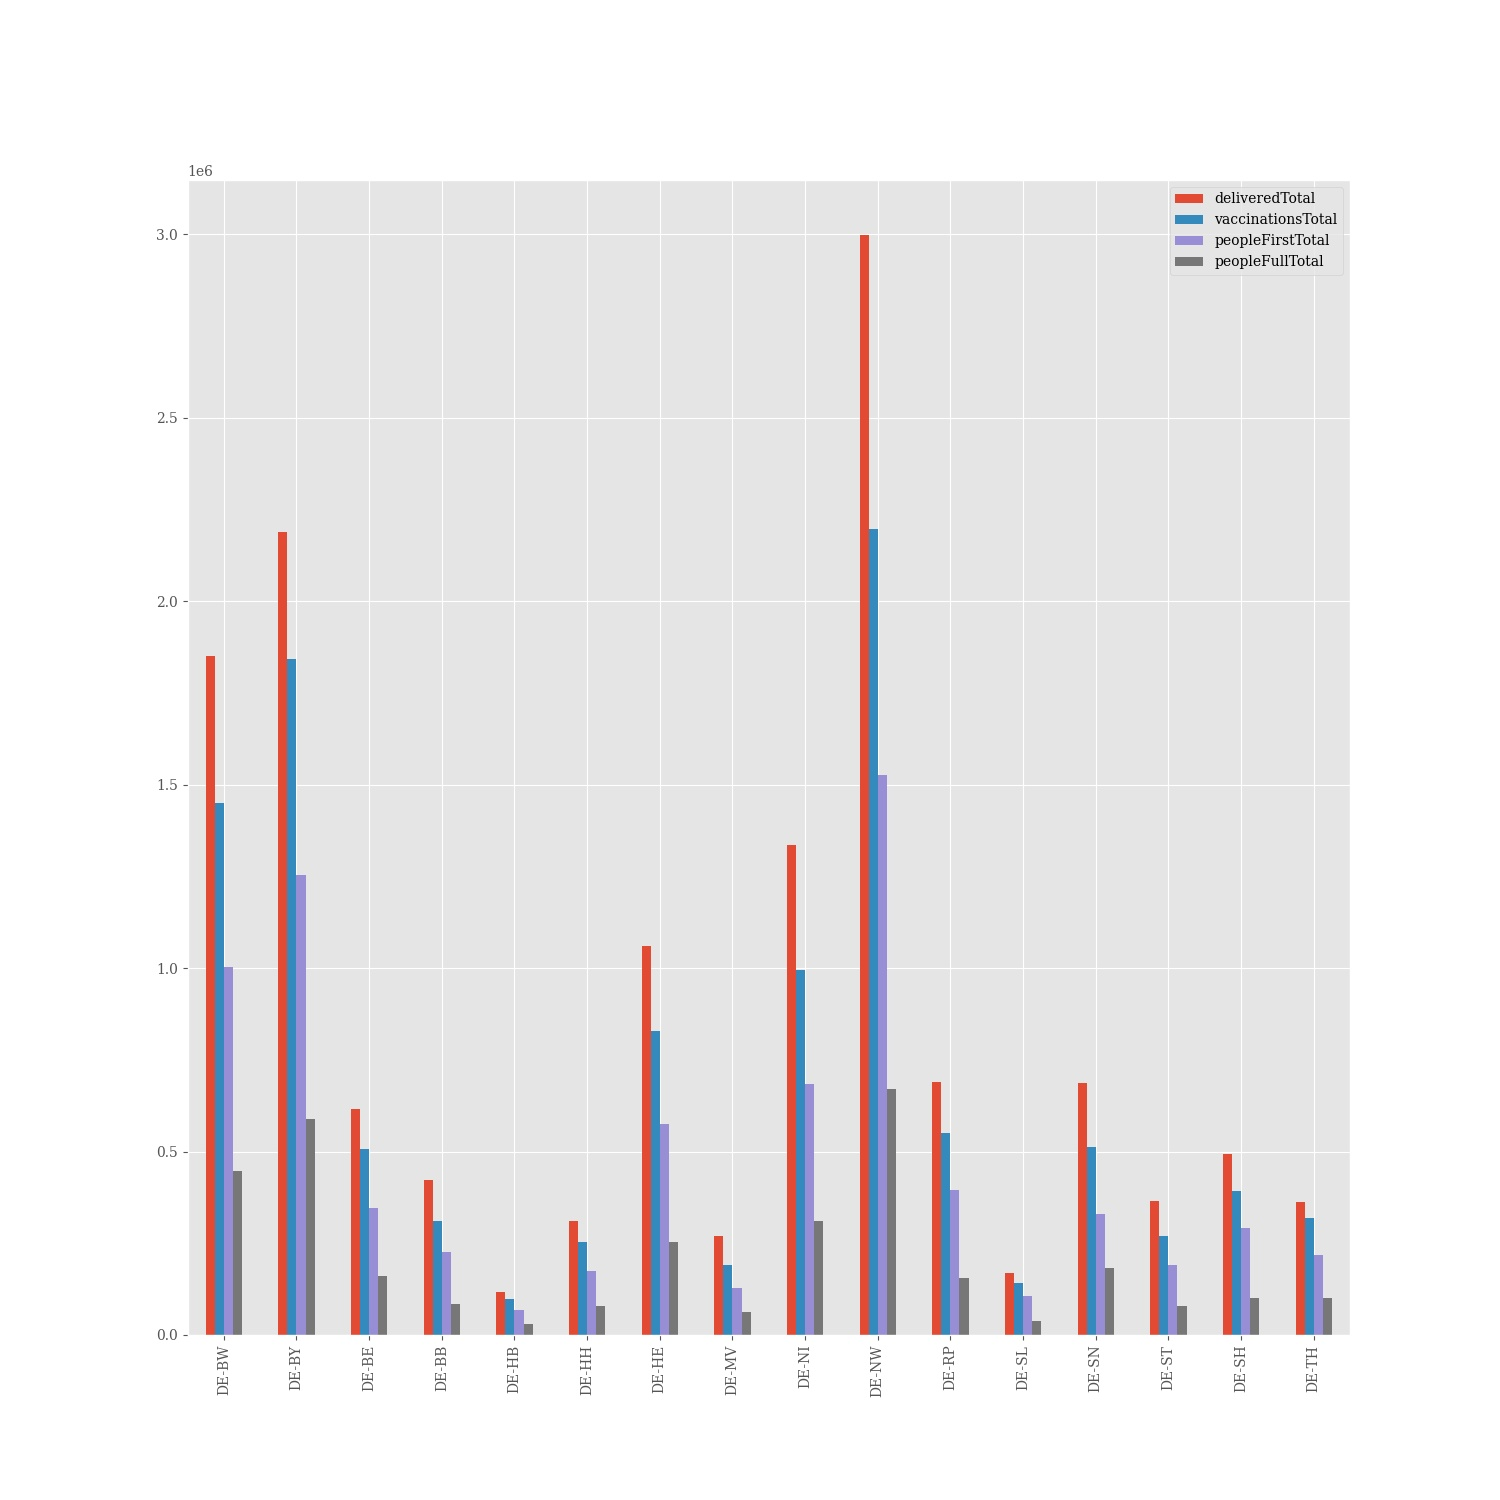
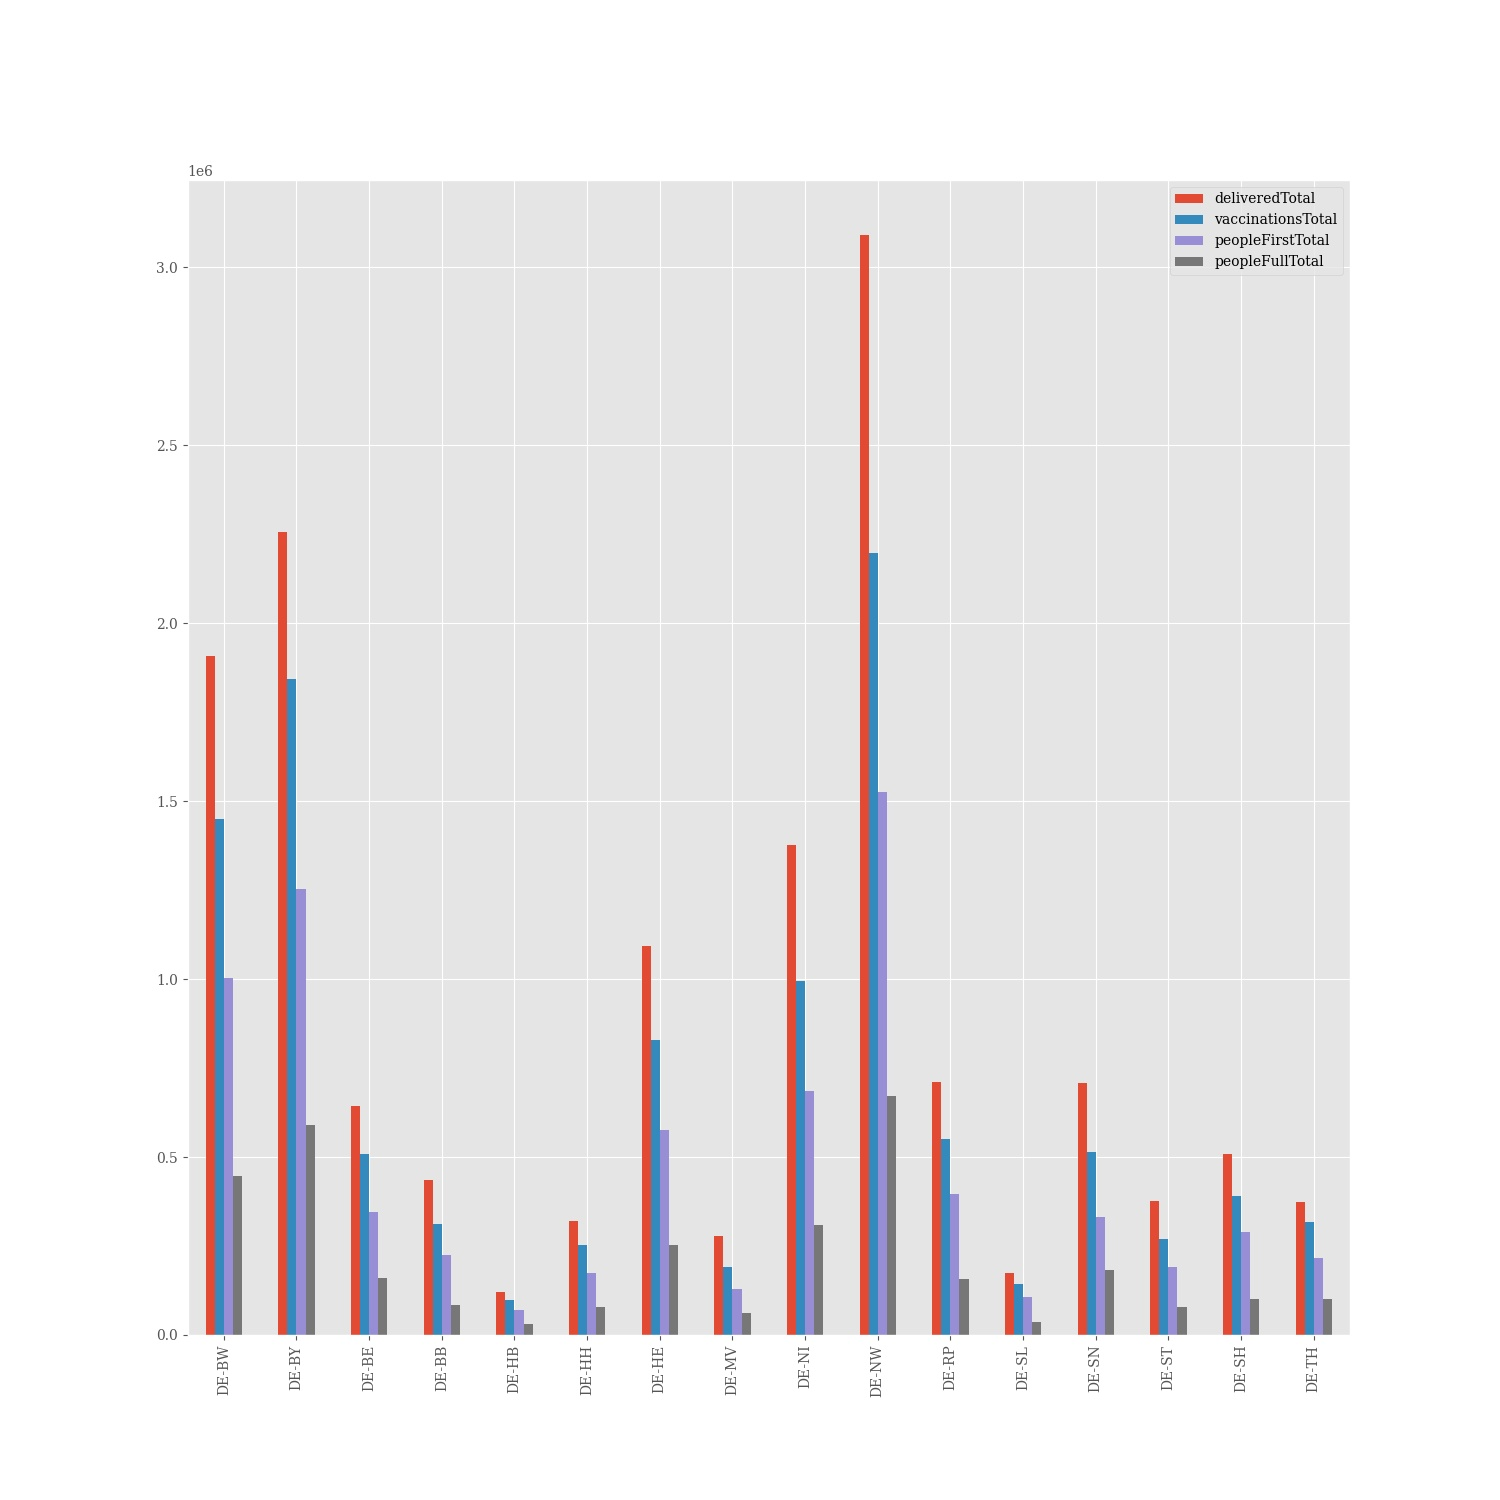
Crontab commit

Changed region(s): [[0.1227, 0.5213, 0.1533, 0.552]]

diff --git a/Readme.md b/Readme.md
@@ -17,22 +17,22 @@ Astrazeneca | 1921877
 ## Bundesländer
 **Bundesland** | **Prozent von gelieferten Imfdosen verimpft**
 -------- | :--------:
-DE-BW | 78.32 %
-DE-BY | 84.18 %
-DE-BE | 82.27 %
-DE-BB | 73.50 %
-DE-HB | 85.26 %
-DE-HH | 81.51 %
-DE-HE | 78.14 %
-DE-MV | 70.83 %
-DE-NI | 74.49 %
-DE-NW | 73.28 %
-DE-RP | 79.90 %
-DE-SL | 84.81 %
-DE-SN | 74.73 %
-DE-ST | 73.43 %
-DE-SH | 79.15 %
-DE-TH | 87.62 %
+DE-BW | 76.00 %
+DE-BY | 81.67 %
+DE-BE | 78.89 %
+DE-BB | 71.28 %
+DE-HB | 82.69 %
+DE-HH | 79.07 %
+DE-HE | 75.82 %
+DE-MV | 68.69 %
+DE-NI | 72.28 %
+DE-NW | 71.09 %
+DE-RP | 77.60 %
+DE-SL | 82.46 %
+DE-SN | 72.58 %
+DE-ST | 71.33 %
+DE-SH | 76.91 %
+DE-TH | 85.09 %
 ## Graphen
 <img src="Impfungen-Corona-01.jpg" alt="Impf Übersicht" title="Impf Übersicht" />
 <img src="Impfungen-Corona-02.jpg" alt="Impfquote" title="optionaler Titel" />
